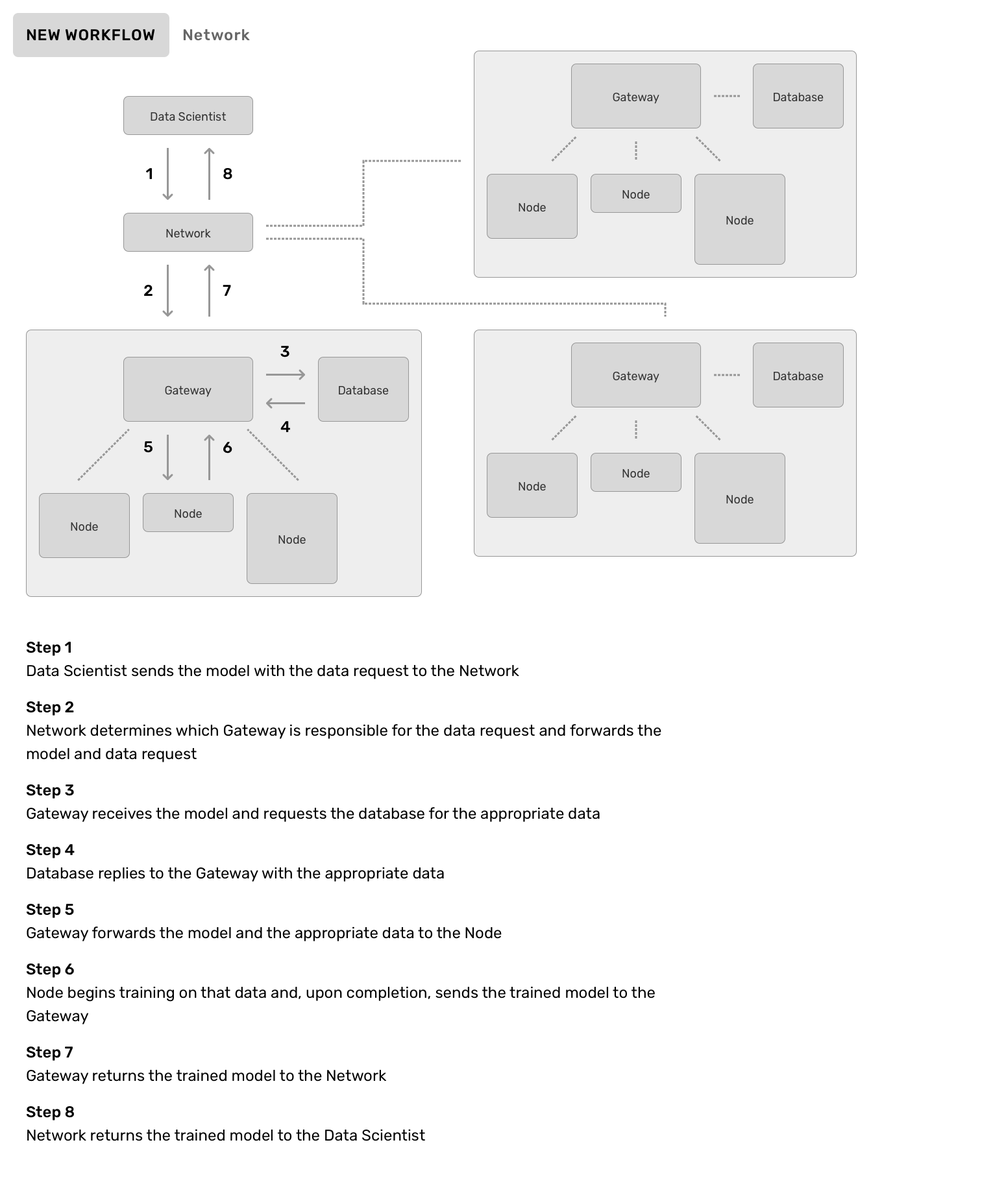
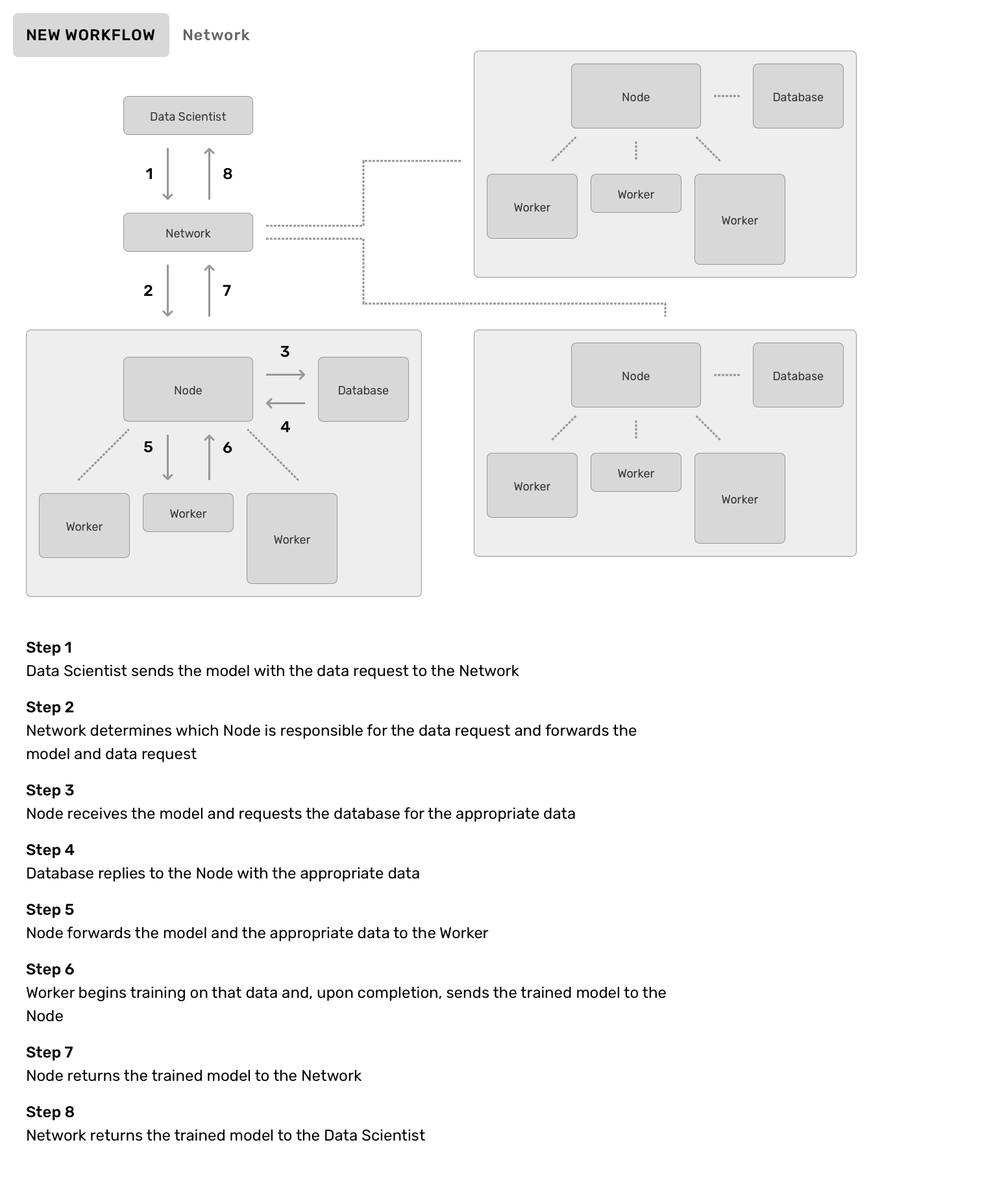
Renaming node to worker and gateway to node for dynamic FL

diff --git a/web_and_mobile_team/projects/dynamic_federated_learning.md b/web_and_mobile_team/projects/dynamic_federated_learning.md
@@ -6,14 +6,14 @@ Dynamic federated learning is one of the primary use-cases of the OpenMined ecos
 
 In this concept, a data owner may allow a data scientist (internal to their organization, or external) to submit their model for training, all while tracking and permissioning their usage at a granular level. Doing such training does not permit the data scientist to steal the private, and often sensitive, information of the data owner. It is noteworthy that in this setting, we assume that the data owner is a trusted organization and that future extensions of this project will enable the use of encrypted computation for joint protection of the model and tensors during training.
 
-For this process to work correctly, the data owner will place their private data inside of a PyGrid "gateway" that acts as both a data store and a load balancer, distributing work to one or many PyGrid "nodes" which act as workers on that data. Each node has dedicated compute resources with which to train models on behalf of the data scientist. There is also an optional layer on top of a PyGrid gateway called a PyGrid "network" that allows a user to search for available tensors across multiple gateways under the same network. Regardless of presence of a network, a data owner may deploy their PyGrid gateway either to their own privately managed servers, or to a major cloud provider like AWS, GCP, Azure, Heroku, or DigitalOcean.
+For this process to work correctly, the data owner will place their private data inside of a PyGrid "Node" that acts as both a data store and a load balancer, distributing work to one or many PyGrid "Workers" which compute on that data. Each Worker has dedicated compute resources with which to train models on behalf of the data scientist. There is also an optional layer on top of a PyGrid Node called a PyGrid "network" that allows a user to search for available tensors across multiple Nodes under the same network. Regardless of presence of a network, a data owner may deploy their PyGrid Node either to their own privately managed servers, or to a major cloud provider like AWS, GCP, Azure, Heroku, or DigitalOcean.
 
-The data owner can create users on their gateway with a variety of preset and custom permissions, as well as designate each user's "privacy budget" (tracked via an "epsilon value") which is used to track how many `get()` requests that particular user has made. This ensures that no one user has complete access to the private tensors of the PyGrid gateway, nor can they make unlimited model training requests. Permissions can be created and assigned at both the user-level and the tensor-level, allowing for smart defaults to be set, and overrides to be assigned on a case-by-case basis. Tensors can be listed as "public" or "private":
+The data owner can create users on their Node with a variety of preset and custom permissions, as well as designate each user's "privacy budget" (tracked via an "epsilon value") which is used to track how many `get()` requests that particular user has made. This ensures that no one user has complete access to the private tensors of the PyGrid Node, nor can they make unlimited model training requests. Permissions can be created and assigned at both the user-level and the tensor-level, allowing for smart defaults to be set, and overrides to be assigned on a case-by-case basis. Tensors can be listed as "public" or "private":
 
-- **Public** means they're visible in a gateway or network search and available for training request by any user.
-- **Private** means they're visible in a gateway or network search and may be used to train a model, but the results of the training are disclosed only if the user has appropriate permissions to observe them. If the user does not have permissions, they may submit a request for a modification of their permissions to the data compliance officer.
+- **Public** means they're visible in a Node or network search and available for training request by any user.
+- **Private** means they're visible in a Node or network search and may be used to train a model, but the results of the training are disclosed only if the user has appropriate permissions to observe them. If the user does not have permissions, they may submit a request for a modification of their permissions to the data compliance officer.
 
-Of course, it would be difficult to manage multiple users, permissions, and model training requests through a command line or Python notebook. This creates the need for a small user interface to be developed to aide in the management of a private PyGrid gateway. We call this user interface the "PyGrid Admin" and it will serve as the secondary component of this project's roadmap. An administrator will be able to manage their entire gateway through this white-labeled user interface, which will be hosted as a standalone single-page application separate from the PyGrid API itself. Developing the PyGrid Admin as a standalone front-end application allows for the PyGrid gateway infrastructure to be scaled separate from the needs of running a user interface. Thus, the PyGrid Admin may be hosted on a variety of cloud-based file server platforms like AWS's S3, GCP's Cloud Storage, Microsoft's Azure Blob Storage, Netlify, or other such static asset hosting solutions.
+Of course, it would be difficult to manage multiple users, permissions, and model training requests through a command line or Python notebook. This creates the need for a small user interface to be developed to aide in the management of a private PyGrid Node. We call this user interface the "PyGrid Admin" and it will serve as the secondary component of this project's roadmap. An administrator will be able to manage their entire Node through this white-labeled user interface, which will be hosted as a standalone single-page application separate from the PyGrid API itself. Developing the PyGrid Admin as a standalone front-end application allows for the PyGrid Node infrastructure to be scaled separate from the needs of running a user interface. Thus, the PyGrid Admin may be hosted on a variety of cloud-based file server platforms like AWS's S3, GCP's Cloud Storage, Microsoft's Azure Blob Storage, Netlify, or other such static asset hosting solutions.
 
 One important administrative role of the PyGrid Admin is approving and denying data requests - we call this role the "data compliance officer". This individual is responsible for ensuring that the results of model training, which will be sent back to the data scientist, do not contain private information. The application will be responsible for empowering the data compliance officer with all of the information they need to make this decision, including: advanced analytics, differential privacy budgeting (tracked via an epsilon value), user request history, model and plan inspection, data request inspection, and other sources of information. Enforcement of these decisions will be performed by this individual within the PyGrid Admin, ensuring total control over their private data.
 
@@ -35,15 +35,15 @@ This roadmap describes a project that is comprised of multiple other smaller pro
 Let’s start off by defining a few terms that will be regularly used throughout this document:
 
 - **Model** - a standard machine learning model
-- **Plan** - a serialized list of operations that can be executed by a PyGrid Node
-- **Gateway** - a data store and load balancer that serves as the primary public endpoint for a PyGrid network
-- **Node** - a single server acting as a worker for a PyGrid gateway, where model training takes place
+- **Plan** - a serialized list of operations that can be executed by a PyGrid Worker
+- **Node** - a data store and load balancer that serves as the primary public endpoint for a PyGrid network
+- **Worker** - a single compute server for a PyGrid Node, where model training/inferencing takes place
 - **Privacy budget** - the amount of data per user that a data compliance officer can justify leaving their system
 - **Epsilon value** - the name of the value for measuring a user's privacy budget
 
 We will also use this section for defining each of the components of the OpenMined dynamic federated learning system:
 
-- **PyGrid** - a library consisting of multiple services that allows for "nodes" to be deployed and managed through a single "gateway". This is the main project where model training requests will be sent to and private data will be hosted.
+- **PyGrid** - a library consisting of multiple services that allows for "Workers" to be deployed and managed through a single "Node". This is the main project where model training requests will be sent to and private data will be hosted.
 - **PySyft** - a framework for privacy-preserving machine learning that is the primary library called internally by PyGrid
 - **PyGrid Admin** - a user interface (UI) for managing a PyGrid network, allowing an administrator to manage user and tensor permissions and model trainin requests by those users
 
@@ -51,10 +51,10 @@ We will also use this section for defining each of the components of the OpenMin
 
 ### 1. Host
 
-To start, an individual or organization must deploy their own PyGrid network comprised of a single PyGrid gateway which is responsible for hosting private data, and one or many PyGrid nodes which are responsible for performing model training. Commands may be issued to the gateway, which it then delegates to the appropriate node. This allows for the simple management of complex networks with hundreds or thousands of nodes.
+To start, an individual or organization must deploy their own PyGrid network comprised of a single PyGrid Node which is responsible for hosting private data, and one or many PyGrid Workers which are responsible for performing model training. Commands may be issued to the Node, which it then delegates to the appropriate Worker. This allows for the simple management of complex networks with hundreds or thousands of Workers.
 
 ```python
-# 1. Create a basic PyGrid network with a gateway and multiple nodes
+# 1. Create a basic PyGrid network with a Node and multiple Workers
 # 2. Deploy this PyGrid network to a cloud provider or private cloud network
 ```
 
@@ -71,22 +71,22 @@ At this point, there is a fully-hosted PyGrid network [running in the cloud](clo
 
 At this point, we've created our network and are ready to begin creating users and permissions. To make this process quicker, we suggest that creating users and assigning permissions is done through the PyGrid Admin UI. For a full overview of user roles and permission, [please visit that sub-roadmap here](common/pygrid_permissions.md). The premise is as such:
 
-- Users are created inside of the PyGrid Gateway and given a base-level of permissions for querying tensors in the database.
-- Data scientists will not be given any UI access in the PyGrid Admin UI, and will be required to interface with the Gateway or Network via a command line or Python Notebook.
+- Users are created inside of the PyGrid Node and given a base-level of permissions for querying tensors in the database.
+- Data scientists will not be given any UI access in the PyGrid Admin UI, and will be required to interface with the Node or Network via a command line or Python Notebook.
 - Tensors may have individual permissions set to them, such as a "public" or "private" status.
 - Data scientists are given access to all public tensors and whatever private tensors an administrator permits. They will have the ability to search all tensors, regardless of their status.
 - Groups may be created to make assigning permissions in batch easier.
-- There are multiple other roles for various Gateway and Network administrators.
+- There are multiple other roles for various Node and Network administrators.
 
 Generally speaking, permissions are highly flexible and can be assigned to users, groups, and tensors. Overrides are made possible in the exact same order of priortity (highest to lowest).
 
 ### 3. Search
 
-Once PyGrid has been hosted, tensors have been uploaded, users have been created, and permissions have been set, data scientists may begin making requests to the gateway. This process begins with a simple search of what tensors the data scientist may be interested in. Once they've searched the gateway and have found a tensor they would like to work with, they may begin provisioning compute resources and start working.
+Once PyGrid has been hosted, tensors have been uploaded, users have been created, and permissions have been set, data scientists may begin making requests to the Node. This process begins with a simple search of what tensors the data scientist may be interested in. Once they've searched the Node and have found a tensor they would like to work with, they may begin provisioning compute resources and start working.
 
 ```python
-# 1. Log into the PyGrid gateway
-# 2. Do a search of the gateway
+# 1. Log into the PyGrid Node
+# 2. Do a search of the Node
 # 3. Provision compute resources
 # 4. Select a tensor from the list and start working
 ```
@@ -94,8 +94,8 @@ Once PyGrid has been hosted, tensors have been uploaded, users have been created
 If additional permissions are needed to select a tensor for training, the data scientist may request permission right in their Jupyter Notebook before continuing on.
 
 ```python
-# 1. Log into the PyGrid gateway
-# 2. Do a search of the gateway
+# 1. Log into the PyGrid Node
+# 2. Do a search of the Node
 # 3. Request permissions to select a tensor from the list
 # 4. Carry on...
 ```
@@ -114,7 +114,7 @@ Once they are satisfied with the result, they may call `get()` to make a request
 
 It's important for a data compliance officer to have control over what data leaves their system. This person's primary job is to read through a model trained on the system, look at the effect that training the model had on their system's privacy leakage, and then determine whether or not the release of this trained model should be allowed. It's also worth nothing that a data scientist who makes a `get()` request for a tensor that exceeds their alotted privacy budget will be automatically denied.
 
-If the the data compliance officer agrees that the privacy leakage is appropriate, they can choose to fulfill the `get()` request and release the trained model back to the data scientist. This is done through the PyGrid Admin UI. Optionally, they may choose to deny this request and the data scientist will be notified of the decision. Currently, the way this decision is communicated between the data compliance officer and the data scientist is arbitrary and determined by the individual relationship of those two individuals. It's outside the scope of this roadmap to prescribe a communication gateway for these individuals. Privacy budgeting is discussed at [much greater detail here](common/privacy_budgeting.md).
+If the the data compliance officer agrees that the privacy leakage is appropriate, they can choose to fulfill the `get()` request and release the trained model back to the data scientist. This is done through the PyGrid Admin UI. Optionally, they may choose to deny this request and the data scientist will be notified of the decision. Currently, the way this decision is communicated between the data compliance officer and the data scientist is arbitrary and determined by the individual relationship of those two individuals. It's outside the scope of this roadmap to prescribe a communication protocol for these individuals. Privacy budgeting is discussed at [much greater detail here](common/privacy_budgeting.md).
 
 ## Projects
 

diff --git a/web_and_mobile_team/projects/common/pygrid_permissions.md b/web_and_mobile_team/projects/common/pygrid_permissions.md
@@ -4,11 +4,11 @@ _Last modified: April 25th, 2020_
 
 The current PyGrid system allows for tensors to be designated as public or private. It also allows those private tensors (known as `PrivateTensor` in PySyft) to be accessible by a dictionary of specified users. While this is a good rudimentary approach to the problem, as PyGrid attempts to scale into production, a more flexible system is required.
 
-In the new permissions system, permissions may be applied to a user directly. The grid owner will specify which users have access to which private tensors. They also specify that user's privacy budget which gets updated according to each `get()` request the user makes against the gateway.
+In the new permissions system, permissions may be applied to a user directly. The grid owner will specify which users have access to which private tensors. They also specify that user's privacy budget which gets updated according to each `get()` request the user makes against the Node.
 
 To make managing user permissions easier, the PyGrid Admin also allows you to specify "groups". Groups allow for organizing subsets of users into pre-determined permissions lists. If a user is part of a group, their permissions are determined by that of their group AND their user-specific permissions. For instance, if a group does not have access to a specific private tensor, the grid owner may decide to allow permissions for a specific user in that group to have access to the tensor, but disallow access for the other users in the group.
 
-It's also worth nothing that there is a separate system of "roles" which strictly relate to administrative access to a PyGrid gateway. All newly created users default to the "User" role, which does not allow for any administrative access to the PyGrid Gateway or Network. The roles are described below, according to their access level from lowest to highest:
+It's also worth nothing that there is a separate system of "roles" which strictly relate to administrative access to a PyGrid Node. All newly created users default to the "User" role, which does not allow for any administrative access to the PyGrid Node or Network. The roles are described below, according to their access level from lowest to highest:
 
 #### User
 
@@ -16,20 +16,20 @@ This is the default user role and is reserved for a user that is non-administrat
 
 #### Compliance Officer
 
-The compliance officer role is strictly for users that are allowed to approve and deny tensor requests. They are only allowed to triage requests made to the system. They cannot change settings within the PyGrid gateway, nor can they create new users.
+The compliance officer role is strictly for users that are allowed to approve and deny tensor requests. They are only allowed to triage requests made to the system. They cannot change settings within the PyGrid Node, nor can they create new users.
 
 #### Admininstrator
 
-The administrator role has permission to do mostly anything on the PyGrid gateway, including triage tensor `get()` requests, create new users, and change settings. However, they do not have the ability to provision compute resources by horizontally or vertically scaling nodes.
+The administrator role has permission to do mostly anything on the PyGrid Node, including triage tensor `get()` requests, create new users, and change settings. However, they do not have the ability to provision compute resources by horizontally or vertically scaling Workers.
 
-#### Gateway Owner
+#### Node Owner
 
-The gateway owner role has permission to do anything an administrator can do, but they can also add, remove, or modify compute resources by horizontally or vertically scaling nodes.
+The Node owner role has permission to do anything an administrator can do, but they can also add, remove, or modify compute resources by horizontally or vertically scaling Workers.
 
 #### Network Administrator
 
-The network administrator role isn't tied to access control of one specific gateway. Instead, this role allows for a user to add or remove PyGrid gateways from a PyGrid network, if a network has been configured. This user does not have permissions to modify or inspect any of the individual gateways in any way. They only have permission to manage the overall network of gateways.
+The network administrator role isn't tied to access control of one specific Node. Instead, this role allows for a user to add or remove PyGrid Nodes from a PyGrid network, if a network has been configured. This user does not have permissions to modify or inspect any of the individual Nodes in any way. They only have permission to manage the overall network of Nodes.
 
 ---
 
-It's worth noting that there is no "Network Owner" role. This is to allow for a natural delegation of responsibility, without giving any one user too much control. The "Gateway Owner" is the master of their gateway. The "Network Administrator" is the master of the network, but does not have access to any of the gateways themselves.
+It's worth noting that there is no "Network Owner" role. This is to allow for a natural delegation of responsibility, without giving any one user too much control. The "Node Owner" is the master of their Node. The "Network Administrator" is the master of the network, but does not have access to any of the Nodes themselves.

diff --git a/web_and_mobile_team/projects/common/pygrid_admin.md b/web_and_mobile_team/projects/common/pygrid_admin.md
@@ -5,33 +5,40 @@ _Last modified: May 29th, 2020_
 The PyGrid Admin UI for dynamic federated learning is fairly simple, consisting of a Login page and 3 main core pages of functionality:
 
 #### Your Queue
+
 ![Your Queue](../images/pygrid-admin/your-queue.png)
 This is where a grid admin or data compliance officer will triage incoming model training and inference requests. Users for this view have the ability to also schedule a video and audio conference with the data scientist themselves. It's not likely that this will be functionality that's available in our MVP.
 
 #### Datasets
+
 ![Datasets](../images/pygrid-admin/datasets.png)
-This is where a grid admin will manage all private datasets hosted within their PyGrid gateway, as well as the permissions of those datasets.
+This is where a grid admin will manage all private datasets hosted within their PyGrid Node, as well as the permissions of those datasets.
 
 #### Users & Groups
+
 ![Users & Groups](../images/pygrid-admin/users-and-groups.png)
 This is where a grid admin will manage all users currently allowed to interact with datasets; create, edit, or delete users; and place users into groups. They will also be allowed to set base level user permissions and provision per-user privacy budgeting allocations here.
 
 ---
 
 #### Login
+
 ![Login](../images/pygrid-admin/login.png)
 Login is fairly straight-forward and does not need additional context.
 
 ### Component System
+
 We are creating a component system, built in React, that will be used in the PyGrid Admin UI, as well as within every UI that OpenMined publicly produces. This UI system is called `openmined-ui` and will be available to the public for use in community-driven user interfaces as well.
 
 The component system will also attempt to automate a large amount of build system tasks related to setting up a proper development environment, build systems, and deployment. It's currently uncertain if these two systems will be implemented together or separate. The most likely scenario is that we will create a UI component system, which is standalone, but also defaultly installed as a dependency in the build system. This will also ensure that beginners are able to contribute to OpenMined's various user interfaces, without needing to know anything about how to create scalable front-end web applications.
 
 ### Scaling and Infrstracture
+
 Since the user interface is simply a series of static files, hosting may be done by cloning the Github project to any file server. If the network administrator prefers, they may also use any of the various one-click deploy buttons in the Github project. Since the UI is separate from the PyGrid application entirely, the scaling concerns are separated.
 
 ### Future Plans
-The PyGrid Admin, as far as this roadmap is concerned, will encompass only dynamic federated learning. However, there is a great deal of functionality that will be planned for subsequent releases. We also intend to eventually release functionality related to static federated learning, as well as monitoring and scaling of compute resources associated with your PyGrid Gateway.
+
+The PyGrid Admin, as far as this roadmap is concerned, will encompass only dynamic federated learning. However, there is a great deal of functionality that will be planned for subsequent releases. We also intend to eventually release functionality related to static federated learning, as well as monitoring and scaling of compute resources associated with your PyGrid Node.
 
 OpenMined intends to also host a public version of this entire user interface on their website at some web address to be announced at a later date. This means that, technically speaking, nobody needs to host the UI themselves unless they need specific control over the branding and identity. The UI hosted by OpenMined will be kept up to date, but it will be the responsibility of those managing a custom deployment of the PyGrid Admin UI to update their installations manually.
 

diff --git a/web_and_mobile_team/projects/common/pygrid_reorganization.md b/web_and_mobile_team/projects/common/pygrid_reorganization.md
@@ -6,12 +6,12 @@ PyGrid will need to undergo a major organizational refactor in order to appropri
 
 ![Old Workflow](../images/old-workflow.png)
 
-_Note: All diagrams in this document contain Nodes of different sizes, this indicates that they may scale their compute resources independent of other Nodes in the Gateway._
+_Note: All diagrams in this document contain Workers of different sizes, this indicates that they may scale their compute resources independent of other Workers in the Node._
 
-While the new workflow will look similar, the key difference is in the way PyGrid integrates with various databases. Currently, each Node in a PyGrid Gateway maintains its own database and each of those databases are kept separate from the other Nodes in the cluster. **Going forward, we are migrating to use one database at the root of the project. This database will only be connected to via the Gateway itself, meaning that Nodes will only be responsible for computing (evaluating or training) on that data.** This is explained in the following image:
+While the new workflow will look similar, the key difference is in the way PyGrid integrates with various databases. Currently, each Worker in a PyGrid Node maintains its own database and each of those databases are kept separate from the other Workers in the cluster. **Going forward, we are migrating to use one database at the root of the project. This database will only be connected to via the Node itself, meaning that Workers will only be responsible for computing (evaluating or training) on that data.** This is explained in the following image:
 
-![New Workflow - Gateway](../images/new-workflow-gateway.png)
+![New Workflow - Node](../images/new-workflow-node.png)
 
-There's one other component that doesn't currently exist: the Network. Networks are an **optional** top layer of connectivity, allowing multiple PyGrid Gateways to be linked to one another and queried simultaneously. For instance, if a hospital network desires to have all of the data of all of their hospitals queryable, yet still give privacy and autonomy to an individual hospital, they may do so using a Network. This allows data scientists immense flexibility in that they do not need to be concerned with which specific Gateway has the data they need, so long as the Network can federate their requests to the appropriate one. This is explained in the following image:
+There's one other component that doesn't currently exist: the Network. Networks are an **optional** top layer of connectivity, allowing multiple PyGrid Nodes to be linked to one another and queried simultaneously. For instance, if a hospital network desires to have all of the data of all of their hospitals queryable, yet still give privacy and autonomy to an individual hospital, they may do so using a Network. This allows data scientists immense flexibility in that they do not need to be concerned with which specific Node has the data they need, so long as the Network can federate their requests to the appropriate one. This is explained in the following image:
 
 ![New Workflow - Network](../images/new-workflow-network.png)

diff --git a/web_and_mobile_team/projects/cloud_deployment.md b/web_and_mobile_team/projects/cloud_deployment.md
@@ -20,9 +20,9 @@ These are currently ordered in terms of the perceived priority based on the requ
 
 Another requirement of cloud deployment will be the ability to provision, scale, and monitor resources. This would include the following base functionality:
 
-- **Horizontal scaling:** The ability to add or remove PyGrid Nodes from a PyGrid Gateway
-- **Vertical scaling:** The ability to increase or decrease compute resources for one or more PyGrid Nodes
-- **Workload monitoring:** The ability to visually inspect which PyGrid Nodes are being utilized, their current task, and their resource utilization
+- **Horizontal scaling:** The ability to add or remove PyGrid Workers to or from a PyGrid Node
+- **Vertical scaling:** The ability to increase or decrease compute resources for one or more PyGrid Workers
+- **Workload monitoring:** The ability to visually inspect which PyGrid Workers are being utilized, their current task, and their resource utilization
 - **Update software:** The ability to upgrade a given PyGrid instance to the latest release, ensuring that new features are automatically added and vulnerabilities are regularly patched
 
 These functionalities will be possible via a rich integration into the [PyGrid Admin UI](common/pygrid_admin.md). While it will also be possible to perform these same functions in a command line interface, it's generally easier to do them visually and within context of the current resource workload.

diff --git a/web_and_mobile_team/projects/federated_learning.md b/web_and_mobile_team/projects/federated_learning.md
@@ -173,7 +173,7 @@ If you don't have some authentication logic, you make yourself open to [Sybil at
 
 ### 3. Host
 
-Now that the model has been tested locally, it’s time to host the model on PyGrid. This will allow for training cycles to begin on end-user devices. The developer needs to connect to an existing PyGrid gateway and send the model, various worker plans and protocols, averaging plan, and various configurations to be stored in PyGrid properly.
+Now that the model has been tested locally, it’s time to host the model on PyGrid. This will allow for training cycles to begin on end-user devices. The developer needs to connect to an existing PyGrid Node and send the model, various worker plans and protocols, averaging plan, and various configurations to be stored in PyGrid properly.
 
 ```py
 import grid as gr
